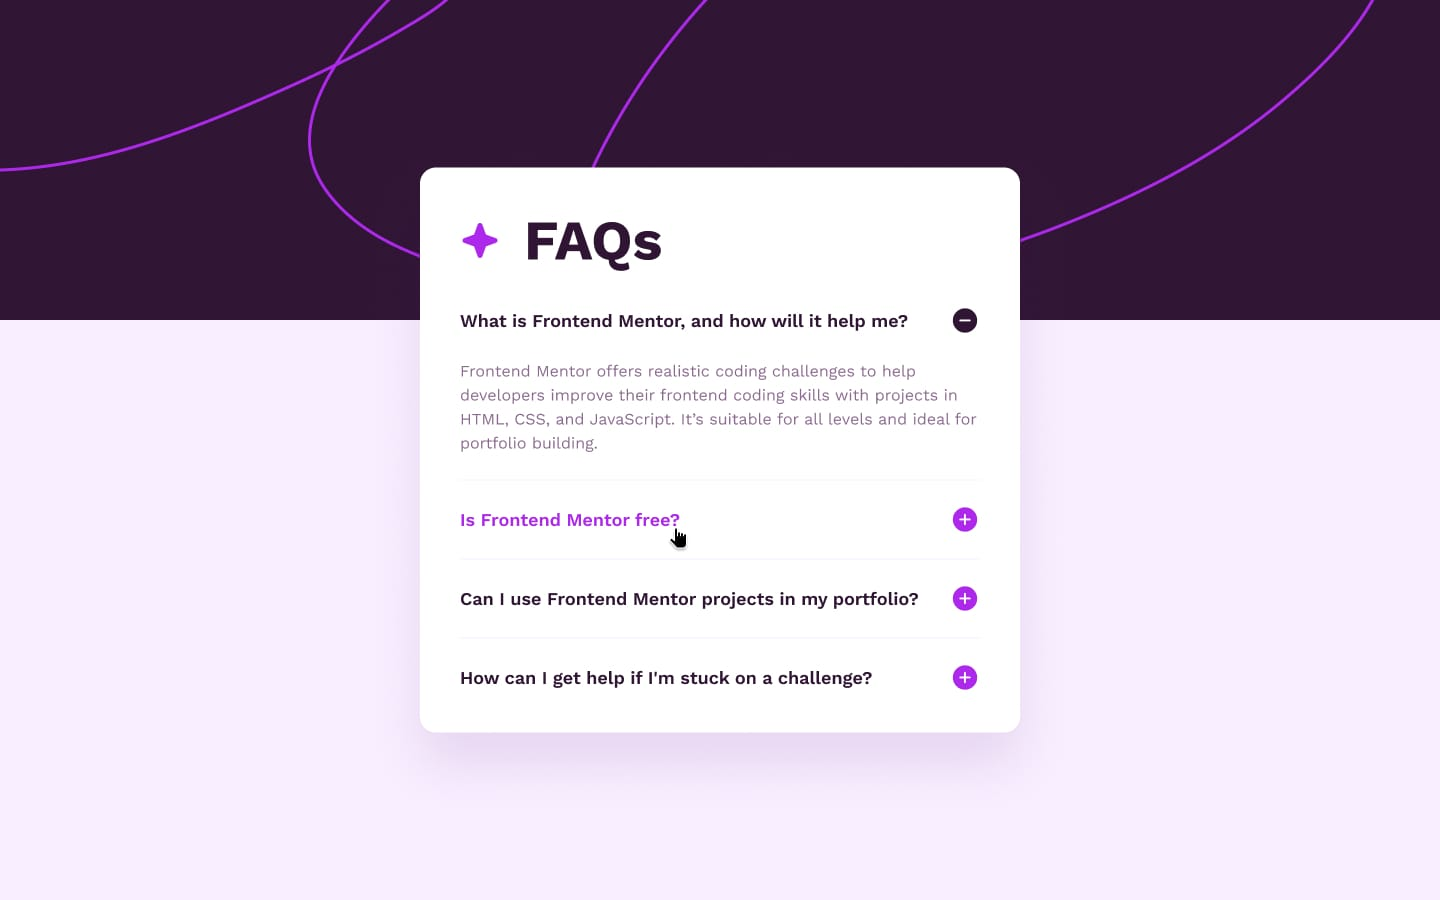
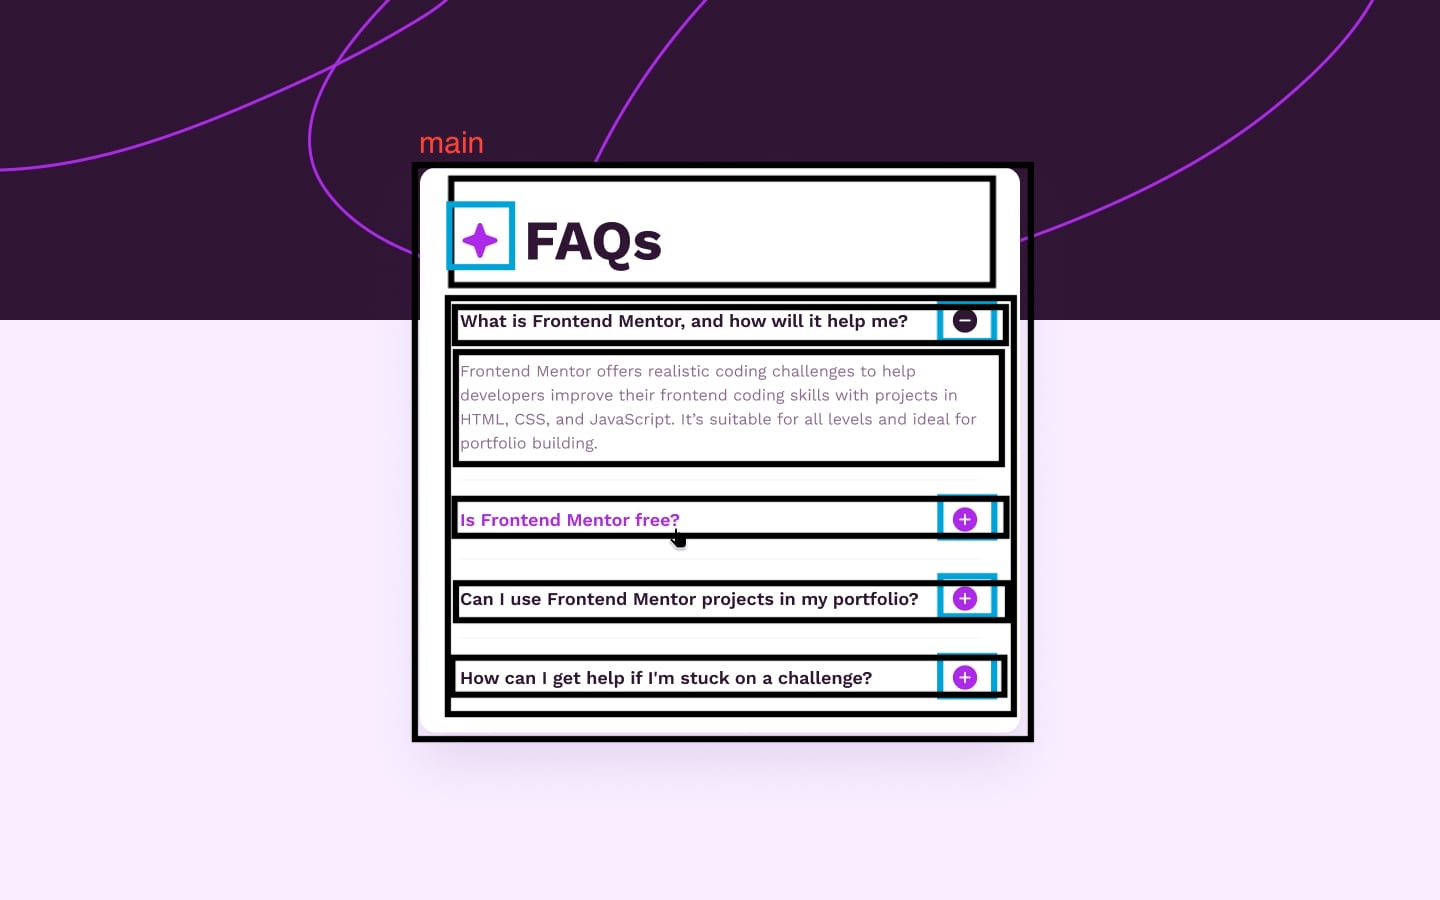
done the HTML & js dom for another frontend mentor

Changed region(s): [[0.2812, 0.1556, 0.7188, 0.84]]

diff --git a/frontend_mentor/faq-accordion-main/index.html b/frontend_mentor/faq-accordion-main/index.html
@@ -27,24 +27,119 @@
     <link rel="stylesheet" href="style.css" />
   </head>
   <body>
-    FAQs What is Frontend Mentor, and how will it help me? Frontend Mentor
-    offers realistic coding challenges to help developers improve their frontend
-    coding skills with projects in HTML, CSS, and JavaScript. It's suitable for
-    all levels and ideal for portfolio building. Is Frontend Mentor free? Yes,
-    Frontend Mentor offers both free and premium coding challenges, with the
-    free option providing access to a range of projects suitable for all skill
-    levels. Can I use Frontend Mentor projects in my portfolio? Yes, you can use
-    projects completed on Frontend Mentor in your portfolio. It's an excellent
-    way to showcase your skills to potential employers! How can I get help if
-    I'm stuck on a Frontend Mentor challenge? The best place to get help is
-    inside Frontend Mentor's Discord community. There's a help channel where you
-    can ask questions and seek support from other community members.
-
+    <main>
+      <header>
+        <img src="./assets/images/icon-star.svg" alt="" />
+        <p class="faqs">FAQs</p>
+      </header>
+      <div class="main-container">
+        <div id="q1" class="question-wrapper">
+          <p class="question">
+            What is Frontend Mentor, and how will it help me?
+          </p>
+          <div class="plus-minus-wrapper">
+            <img
+              id="q1PlusBtn"
+              src="./assets/images/icon-plus.svg"
+              alt=""
+              class="plus"
+            />
+            <img
+              id="q1MinusBtn"
+              src="./assets/images/icon-minus.svg"
+              alt=""
+              class="minus hidden"
+            />
+          </div>
+        </div>
+        <div id="a1" class="answer hidden">
+          Frontend Mentor offers realistic coding challenges to help developers
+          improve their frontend coding skills with projects in HTML, CSS, and
+          JavaScript. It's suitable for all levels and ideal for portfolio
+          building.
+        </div>
+        <div id="q2" class="question-wrapper">
+          <p class="question">Is Frontend Mentor free?</p>
+          <div class="plus-minus-wrapper">
+            <img
+              id="q2PlusBtn"
+              src="./assets/images/icon-plus.svg"
+              alt=""
+              class="plus"
+            />
+            <img
+              id="q2MinusBtn"
+              src="./assets/images/icon-minus.svg"
+              alt=""
+              class="minus hidden"
+            />
+          </div>
+        </div>
+        <div id="a2" class="answer hidden">
+          Yes, Frontend Mentor offers both free and premium coding challenges,
+          with the free option providing access to a range of projects suitable
+          for all skill levels.
+        </div>
+        <div id="q3" class="question-wrapper">
+          <p class="question">
+            Can I use Frontend Mentor projects in my portfolio?
+          </p>
+          <div class="plus-minus-wrapper">
+            <img
+              id="q3PlusBtn"
+              src="./assets/images/icon-plus.svg"
+              alt=""
+              class="plus"
+            />
+            <img
+              id="q3MinusBtn"
+              src="./assets/images/icon-minus.svg"
+              alt=""
+              class="minus hidden"
+            />
+          </div>
+        </div>
+        <div id="a3" class="answer hidden">
+          Yes, you can use projects completed on Frontend Mentor in your
+          portfolio. It's an excellent way to showcase your skills to potential
+          employers!
+        </div>
+        <div id="q4" class="question-wrapper">
+          <p class="question">
+            How can I get help if I'm stuck on a Frontend Mentor challenge?
+          </p>
+          <div class="plus-minus-wrapper">
+            <img
+              id="q4PlusBtn"
+              src="./assets/images/icon-plus.svg"
+              alt=""
+              class="plus"
+            />
+            <img
+              id="q4MinusBtn"
+              src="./assets/images/icon-minus.svg"
+              alt=""
+              class="minus hidden"
+            />
+          </div>
+        </div>
+        <div id="a4" class="answer hidden">
+          The best place to get help is inside Frontend Mentor's Discord
+          community. There's a help channel where you can ask questions and seek
+          support from other community members.
+        </div>
+      </div>
+    </main>
+    <img
+      src="./assets/images/background-pattern-mobile.svg"
+      alt=""
+      class="background"
+    />
     <div class="attribution">
       Challenge by
       <a href="https://www.frontendmentor.io?ref=challenge" target="_blank"
         >Frontend Mentor</a
-      >. Coded by <a href="#">Your Name Here</a>.
+      >. Coded by <a href="#">Liraz Bar-Nir</a>.
     </div>
     <script src="main.js"></script>
   </body>

diff --git a/frontend_mentor/faq-accordion-main/main.js b/frontend_mentor/faq-accordion-main/main.js
@@ -1,1 +1,26 @@
-console.log("hello");
+function toggleAnswer(questionNumber) {
+  console.log(questionNumber);
+  const answer = document.querySelector(`#a${questionNumber}`);
+  console.log(answer);
+  const isAlreadyHidden = answer.classList.contains("hidden");
+  HideAllAnswers();
+  if (isAlreadyHidden) {
+    answer.classList.remove("hidden");
+  }
+}
+
+function HideAllAnswers() {
+  for (let i = 1; i < 5; i++) {
+    const answer = document.querySelector(`#a${i}`);
+    answer.classList.add("hidden");
+    answer.addEventListener("click", function () {
+      HideAllAnswers();
+    });
+  }
+}
+
+for (let i = 1; i < 5; i++) {
+  document.querySelector(`#q${i}`).addEventListener("click", function () {
+    toggleAnswer(i);
+  });
+}

diff --git a/frontend_mentor/faq-accordion-main/style.css b/frontend_mentor/faq-accordion-main/style.css
@@ -1,0 +1,66 @@
+* {
+    box-sizing: border-box;
+    padding: 0;
+    margin: 0;
+    color: aqua;
+}
+body, html {
+    width: 100%;
+    /* background-image: url("./assets/images/background-pattern-mobile.svg"); */
+}
+
+
+.background {
+    position: absolute ;
+    width: 100%;
+    height: 33vh;
+    top: 0;
+    z-index: 99;
+}
+
+main {
+    z-index: 999;
+    background-color: cyan;
+}
+
+header {
+    display: flex;
+}
+
+.faqs {
+
+}
+
+.main-container {
+
+}
+
+.question-wrapper {
+    display: flex;
+    justify-content: space-between;
+}
+
+.question-wrapper:hover {
+    cursor: pointer;
+}
+
+.question {
+
+}
+
+.plus {
+
+}
+
+.minus {
+
+}
+
+.answer {
+
+}
+
+/* last one */
+.hidden {
+    display: none;
+}
